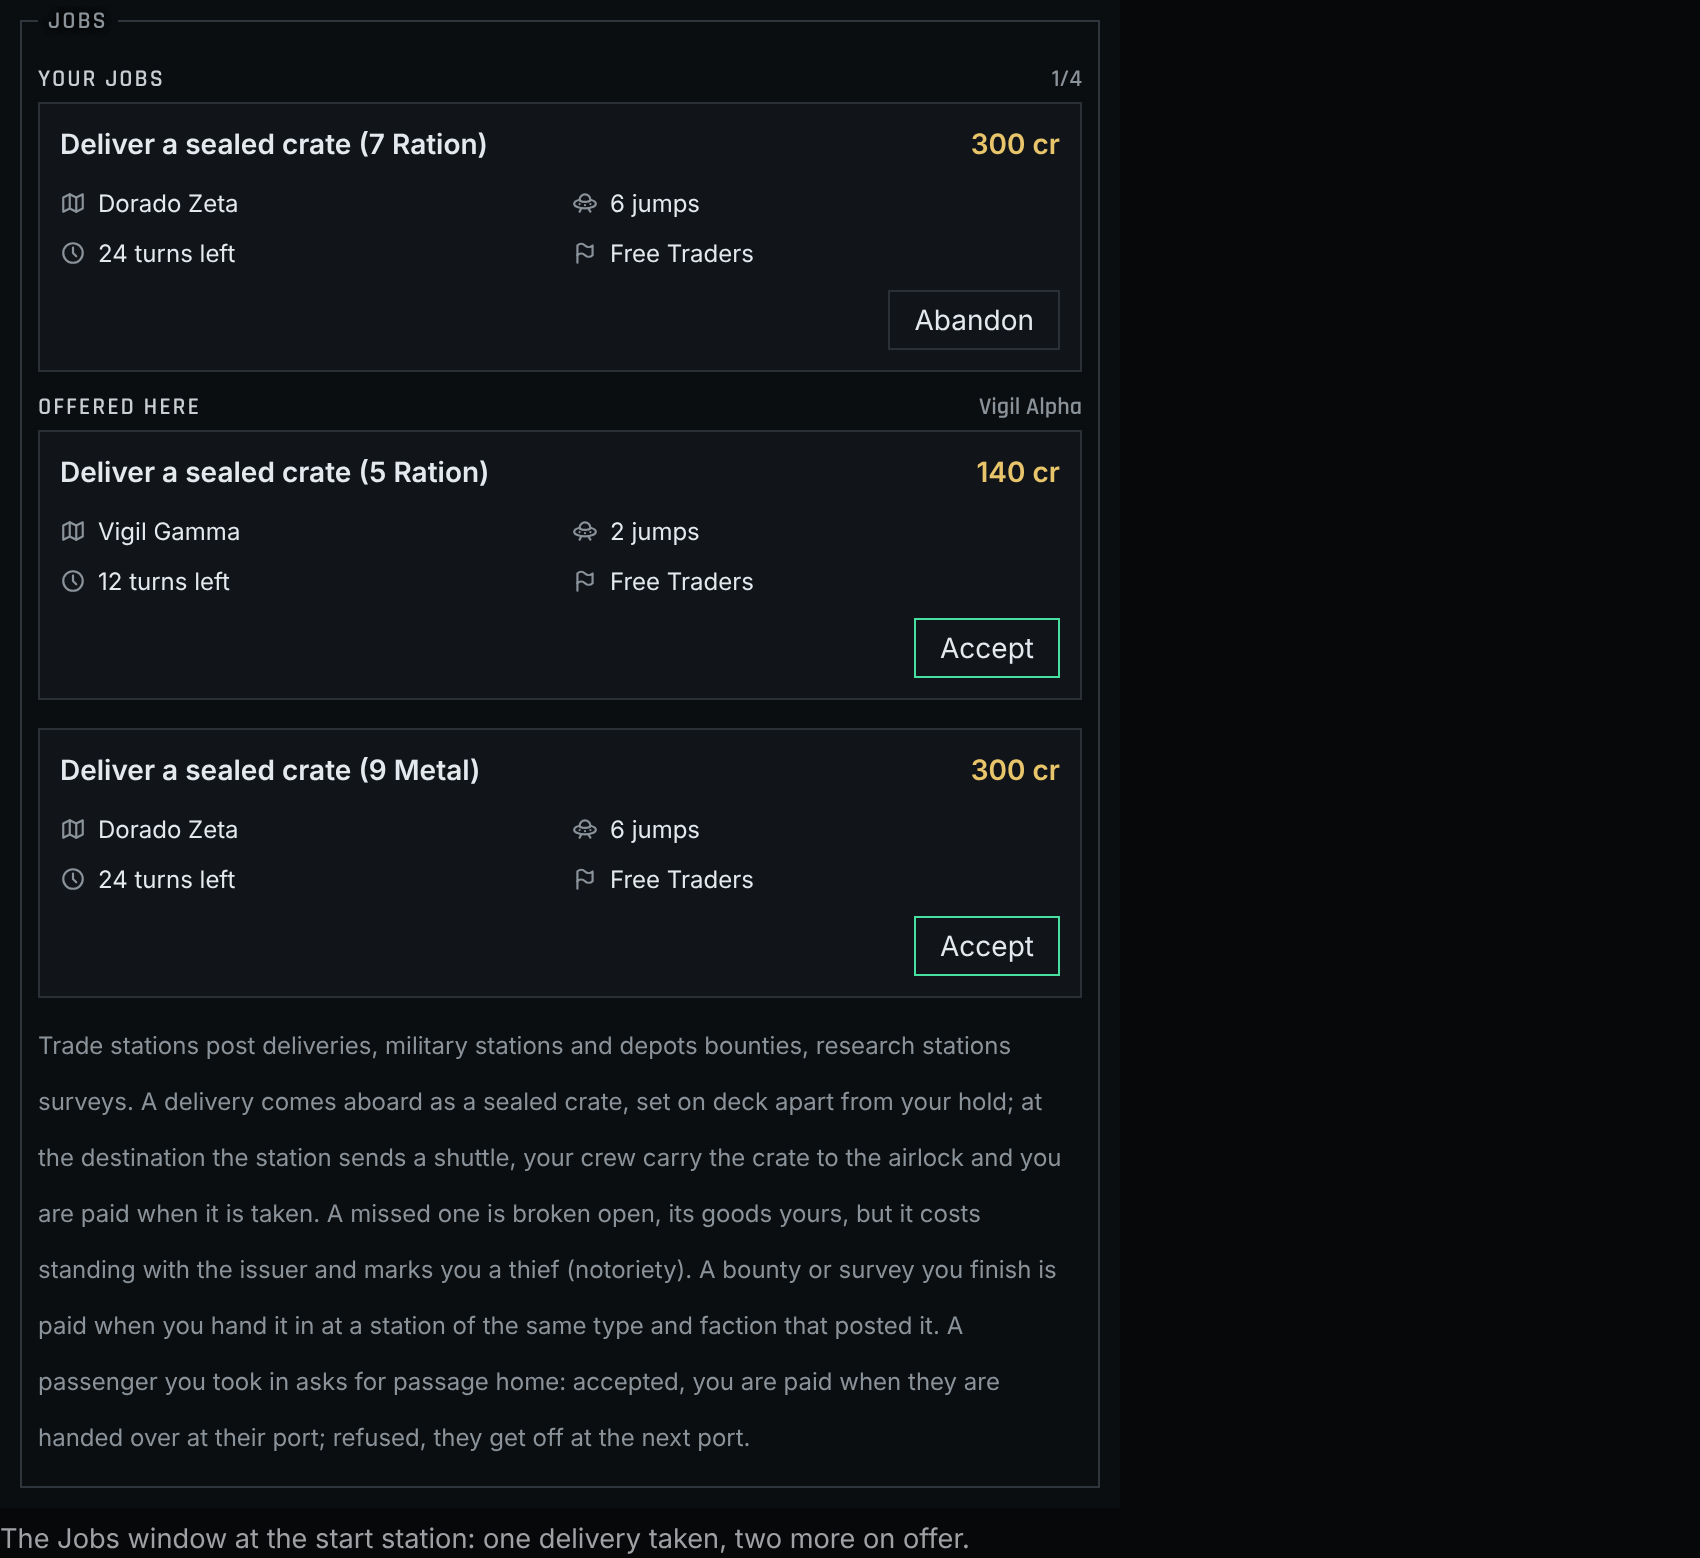
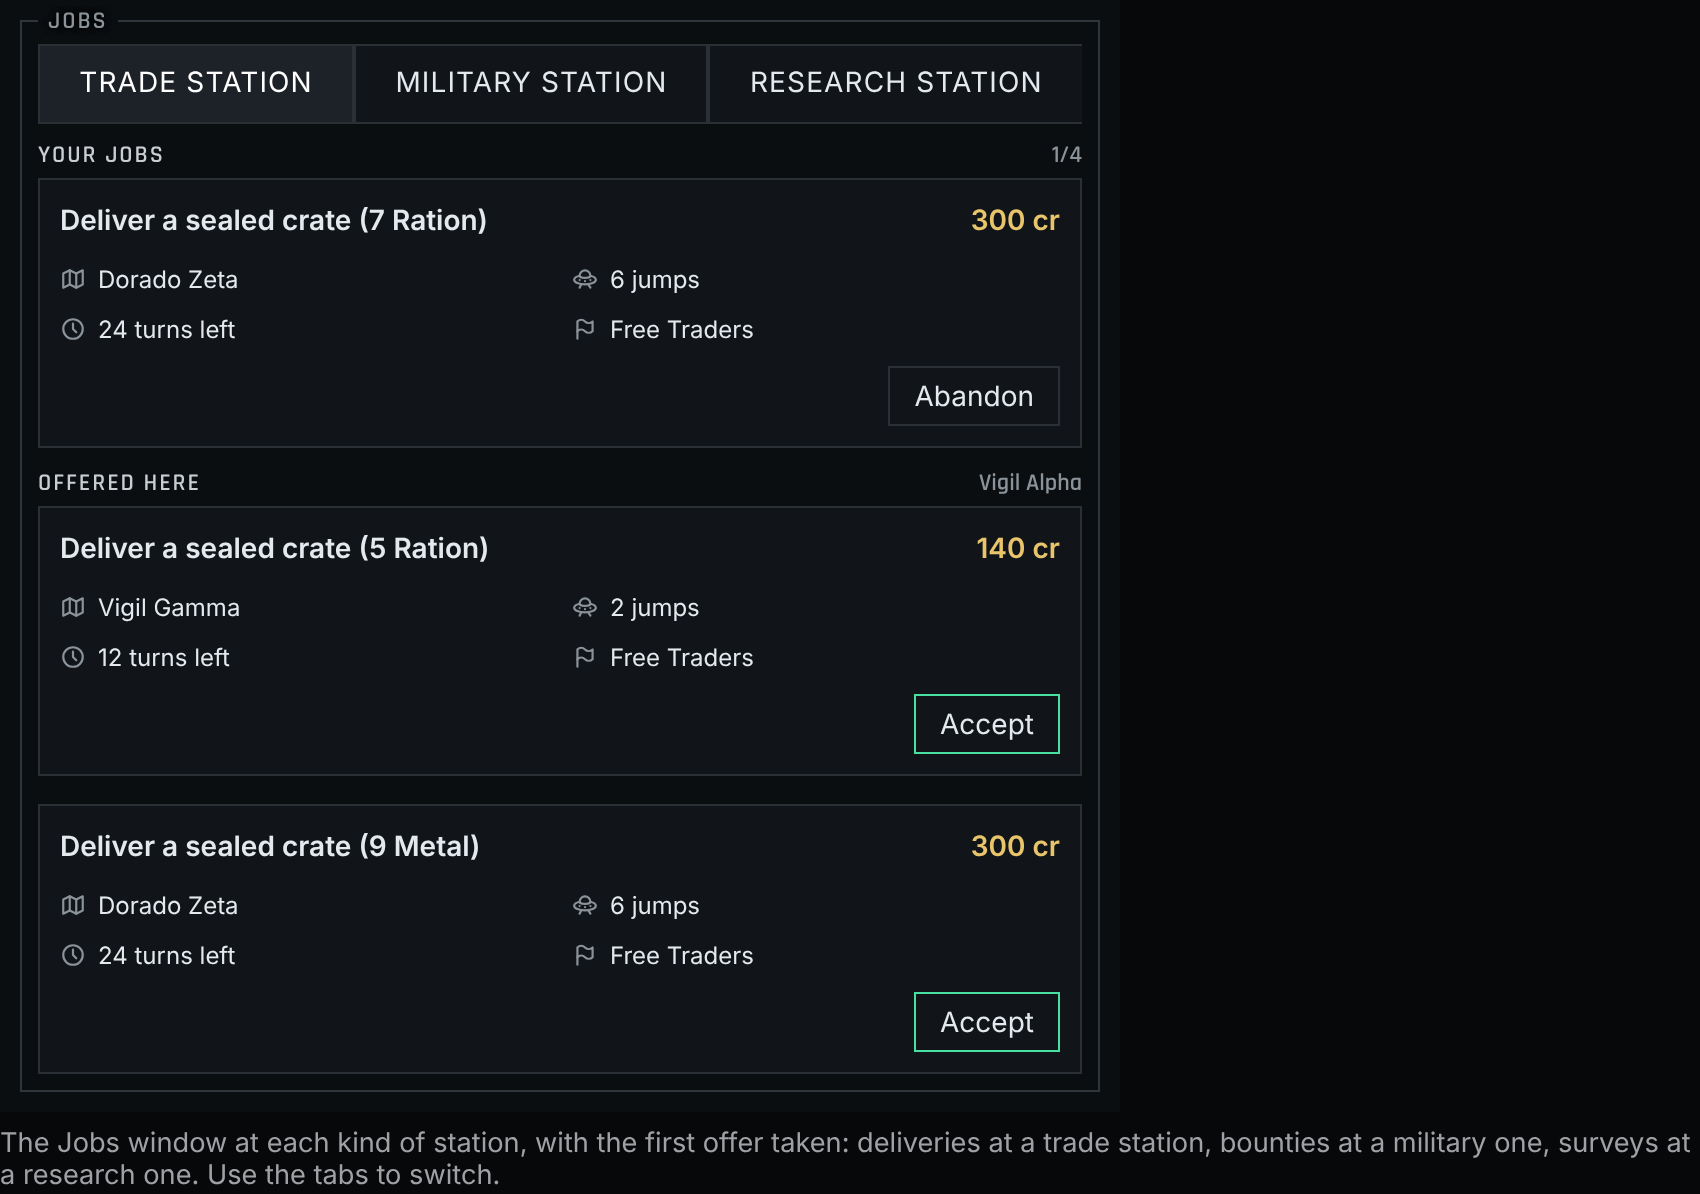
Wiki: jobs panel in three station tabs; JobsBoard note prop; starmap waits for the loading veil; ship cut-out keeps only the player's ship. Refs #446

diff --git a/wiki/scripts/panel-recipes.ts b/wiki/scripts/panel-recipes.ts
@@ -11,6 +11,8 @@ import { droneScenarioCommands } from '../../src/app/droneScenario.ts';
 import { buildTrade } from '../../src/app/tradeSnapshot.ts';
 import { upgradeScenarioCommands } from '../../src/app/upgradeScenario.ts';
 import { buildStructCosts } from '../../src/app/logisticsSnapshot.ts';
+import { portsAt, nodesWithin } from '../../src/sim/index.ts';
+import { stationClass } from '../../src/sim/galaxy/ports.ts';
 import { buildJobs } from '../../src/app/jobsSnapshot.ts';
 
 /** The bridge's data feeds by name, as values ("modules" -> UiModule[]). */
@@ -46,6 +48,28 @@ export function must<T>(value: T | undefined | null, what: string): T {
   return value;
 }
 
+/** The jobs board at the nearest station of a class (the start node's for trade): a game taken there, the first offer accepted. */
+function jobsAt(cls: 'trade' | 'military' | 'research') {
+  const sim = scene({ seed: 3 });
+  const here = sim.galaxy.current;
+  const near = [...nodesWithin(sim, here, 12)].sort((a, b) => a[1] - b[1]).map(([id]) => id).find((id) => portsAt(sim, id).some((p) => stationClass(p) === cls));
+  if (near === undefined) throw Error('Panel recipe found no ' + cls + ' station');
+  if (near !== here) sim.enqueue({ type: 'debug.galaxyTeleport', node: near });
+  const run = (n: number) => { for (let i = 0; i < n; i++) { sim.step(); sim.events.drain(); } };
+  run(40);
+  // A new node waits for the ship to be placed (the deploy picker): try spots until one is accepted.
+  for (const [x, y] of [[100, 60], [20, 50], [60, 120], [150, 40], [30, 130], [170, 110], [10, 10]] as const) {
+    if (sim.sector.state !== 'deploying') break;
+    sim.enqueue({ type: 'sector.deploy', x, y });
+    run(10);
+  }
+  run(40);
+  const first = must(buildJobs(sim).offers[0], cls + ' offer');
+  sim.enqueue({ type: 'jobs.accept', key: first.key });
+  for (let i = 0; i < 40; i++) { sim.step(); sim.events.drain(); }
+  return record(sim, ['jobs']);
+}
+
 export const panels = {
   /** The module inspector on a drone bay: one repair drone out sealing a hull breach, one docked (the drone scenario). */
   droneBay: () => {
@@ -59,11 +83,12 @@ export const panels = {
     const { crew, snapshot } = record(sim, ['crew', 'snapshot']);
     return { crew, snapshot };
   },
-  /** The jobs board at the start station: its offers, with the first delivery already taken. */
-  jobsBoard: () => {
-    const sim = scene({ seed: 3, commands: (s) => buildJobs(s).offers.slice(0, 1).map((o) => ({ type: 'jobs.accept', key: o.key })), secs: 2 });
-    return record(sim, ['jobs']);
-  },
+  /** The jobs board at the start (trade) station: its deliveries, the first already taken. */
+  jobsBoard: () => jobsAt('trade'),
+  /** The jobs board at the nearest military station: bounties, the first already taken. */
+  jobsMilitary: () => jobsAt('military'),
+  /** The jobs board at the nearest research station: surveys, the first already taken. */
+  jobsResearch: () => jobsAt('research'),
   /** The Trade window with a trade outpost hailed: a deal on the slip (three units bought, two sold). */
   trade: () => {
     const sim = scene({ seed: 3, commands: () => [{ type: 'debug.spawnStation', kind: 'station.trading', size: 'outpost', seed: 4 }], secs: 2 });

diff --git a/src/ui/JobsBoard.svelte b/src/ui/JobsBoard.svelte
@@ -4,7 +4,7 @@
   import JobCards from './JobCards.svelte';
 
   /** The jobs board's content: the jobs asked by passengers, yours, finished ones to hand in, and the work posted here. */
-  let { api }: { api: UiApi } = $props();
+  let { api, note = true }: { api: UiApi; /** The long rules note under the cards (the game shows it; the wiki explains the same in its text). */ note?: boolean } = $props();
   let jobs = $state<UiJobs>({ here: null, offers: [], active: [], handIn: [], asked: [], max: 0, mine: null });
   onMount(() => api.jobs.subscribe((v) => (jobs = v)));
 </script>
@@ -29,7 +29,7 @@
     <p class="none">No work posted here.</p>
   {/if}
   <JobCards {api} {jobs} list="offers" />
-  <p class="note">Trade stations post deliveries, military stations and depots bounties, research stations surveys. A delivery comes aboard as a sealed crate, set on deck apart from your hold; at the destination the station sends a shuttle, your crew carry the crate to the airlock and you are paid when it is taken. A missed one is broken open, its goods yours, but it costs standing with the issuer and marks you a thief (notoriety). A bounty or survey you finish is paid when you hand it in at a station of the same type and faction that posted it. A passenger you took in asks for passage home: accepted, you are paid when they are handed over at their port; refused, they get off at the next port.</p>
+  {#if note}<p class="note">Trade stations post deliveries, military stations and depots bounties, research stations surveys. A delivery comes aboard as a sealed crate, set on deck apart from your hold; at the destination the station sends a shuttle, your crew carry the crate to the airlock and you are paid when it is taken. A missed one is broken open, its goods yours, but it costs standing with the issuer and marks you a thief (notoriety). A bounty or survey you finish is paid when you hand it in at a station of the same type and faction that posted it. A passenger you took in asks for passage home: accepted, you are paid when they are handed over at their port; refused, they get off at the next port.</p>{/if}
 
 <style>
   h3 { display: flex; justify-content: space-between; margin: 10px 0 4px; font: 600 12px var(--head-font); letter-spacing: 0.08em; text-transform: uppercase; color: var(--ink-accent); }

diff --git a/wiki/src/lib/JobsTabs.svelte b/wiki/src/lib/JobsTabs.svelte
@@ -1,0 +1,25 @@
+<script lang="ts">
+  import { Tabs } from '../../../src/ui/kit';
+  import JobsBoard from '../../../src/ui/JobsBoard.svelte';
+  import { apiOf } from './panels';
+  import type { Panels } from './panels';
+
+  // The game's jobs board at three kinds of station, one tab each (the tab look is the game's own Tabs). Each board is a recorded game:
+  // the station's offers, the first one already taken. The tabs are the wiki's own; the game shows one board for wherever you are.
+  let { boards }: { boards: { trade: Panels['jobsBoard']; military: Panels['jobsMilitary']; research: Panels['jobsResearch'] } } = $props();
+  const options = [
+    { value: 'trade', label: 'Trade station' },
+    { value: 'military', label: 'Military station' },
+    { value: 'research', label: 'Research station' },
+  ];
+  let tab = $state<keyof typeof boards>('trade');
+</script>
+
+<Tabs {options} value={tab} onChange={(v) => (tab = v as keyof typeof boards)} label="Station types" />
+<div class="board">
+  {#key tab}<JobsBoard api={apiOf(boards[tab])} note={false} />{/key}
+</div>
+
+<style>
+  .board { margin-top: 6px; }
+</style>

diff --git a/wiki/src/routes/mechanics/trading/+page.md b/wiki/src/routes/mechanics/trading/+page.md
@@ -6,12 +6,16 @@ order: 10
 <script lang="ts">
   import Stat from '../../../lib/Stat.svelte'
   import GamePanel from '../../../lib/GamePanel.svelte'
-  import JobsBoard from '../../../../../src/ui/JobsBoard.svelte'
+  import JobsTabs from '../../../lib/JobsTabs.svelte'
   import TradeView from '../../../../../src/ui/TradeView.svelte'
   import { panelOf, apiOf } from '../../../lib/panels'
   import jobsBoardJson from '../../../data/generated/panels/jobsBoard.json'
+  import jobsMilitaryJson from '../../../data/generated/panels/jobsMilitary.json'
+  import jobsResearchJson from '../../../data/generated/panels/jobsResearch.json'
   import tradeJson from '../../../data/generated/panels/trade.json'
   const jobsBoardPanel = panelOf('jobsBoard', jobsBoardJson)
+  const jobsMilitaryPanel = panelOf('jobsMilitary', jobsMilitaryJson)
+  const jobsResearchPanel = panelOf('jobsResearch', jobsResearchJson)
   const tradePanel = panelOf('trade', tradeJson)
 </script>
 
@@ -135,8 +139,8 @@ A price is built from the item's base value:
 Stations, depots and dens post work, and what a place posts depends on what it is. Press the **Jobs** button on the navigation strip to open the jobs window, or open the **Jobs** service
 in a channel. The window lists the jobs you hold, finished work ready to hand in, and what's offered here.
 
-<GamePanel title="Jobs" width="560px" caption="The Jobs window at the start station, with the first delivery already taken.">
-  <JobsBoard api={apiOf({ jobs: jobsBoardPanel.jobs })} />
+<GamePanel title="Jobs" width="560px" caption="The Jobs window at each kind of station, with the first offer taken: deliveries at a trade station, bounties at a military one, surveys at a research one. Use the tabs to switch.">
+  <JobsTabs boards={{ trade: jobsBoardPanel, military: jobsMilitaryPanel, research: jobsResearchPanel }} />
 </GamePanel>
 
 You can hold <Stat kind="tuning" id="MAX_JOBS" /> jobs at once; finished work waiting to be handed in doesn't count. A station posts up to <Stat kind="tuning" id="OFFERS_PER_PORT" /> offers, and they

diff --git a/wiki/src/routes/guides/first-hour/+page.md b/wiki/src/routes/guides/first-hour/+page.md
@@ -155,7 +155,7 @@ Your starting crystals last a good while. Switching off modules you aren't using
 ## Your first contract
 
 <GamePanel title="Jobs" width="560px" caption="The Jobs window at the start station: one delivery taken, two more on offer.">
-  <JobsBoard api={apiOf({ jobs: jobsBoardPanel.jobs })} />
+  <JobsBoard api={apiOf(jobsBoardPanel)} note={false} />
 </GamePanel>
 
 The station's job broker (a service button in the comms channel) and the **Jobs** screen list contracts: deliveries, bounties and surveys, each with its pay, destination, distance and
